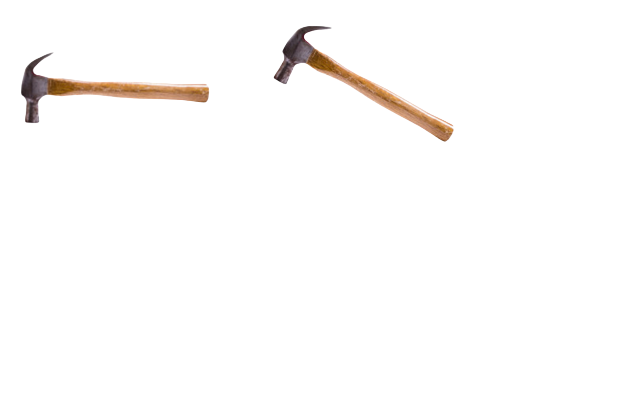
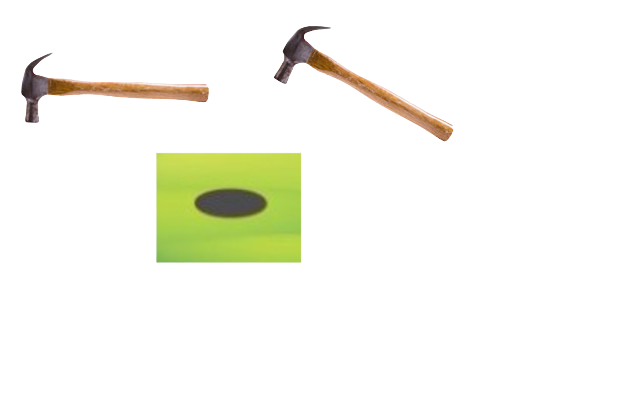
game

Changed region(s): [[0.2405, 0.3646, 0.481, 0.6684]]

diff --git a/Game/gamerenderen.js b/Game/gamerenderen.js
@@ -16,12 +16,13 @@ export class GameRenderer
    //.this.playerIdle = new rect(7,10,390,253);
    //.this.playerHit = new rect(186,201,390,253);
    this.enIdle = new rect(7,10,390,253);
+   this.moleheap = new rect (152, 264, 152, 111);
    
   }
   
   loadImages()
   {
-    let sources = ["img/hamer.jpeg", "img/hamerhit.png", "img/lara2.png", "img/link.jpeg", "img/mario.jpeg", "img/pac man.jpeg", "img/pikachu.jpeg", "img/Sonic.jpeg", "img/achtergrond.jpeg", "img/bomberman.jpeg"];
+    let sources = ["img/hamer.png", "img/hamerhit.png", "img/lara2.png", "img/link.jpeg", "img/mario.jpeg", "img/pac man.jpeg", "img/pikachu.jpeg", "img/Sonic.jpeg", "img/achtergrond.jpeg", "img/bomberman.jpeg"];
     let scope = this;
     let loaded = 0;
 
@@ -68,19 +69,19 @@ export class GameRenderer
    
    let animObject = this.game.playerCurrentAnim;   
 
-   this.renderSprite(this.images[0], animObject.getCurrentFrame(), this.game.player)
-
    
 
    for (var i = 0; i < this.game.moles.length; i++)
    {
      let mole = this.game.moles[i];
+     this.renderSprite(this.images[0], this.moleheap,  mole.rect);
+
      if (mole.visable)
       {
         this.renderSprite(this.images[4], this.enIdle, mole.rect);
       }
    } 
-
+   this.renderSprite(this.images[0], animObject.getCurrentFrame(), this.game.player)
    this.renderUi()
 
     g.beginPath();
